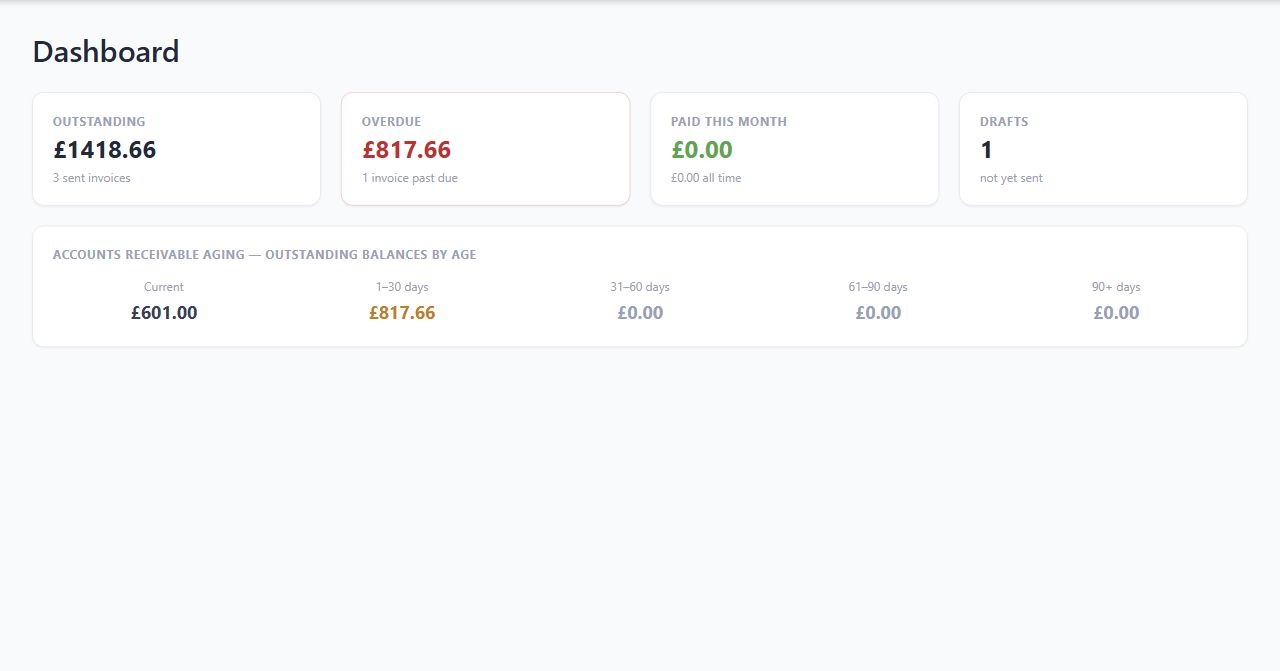
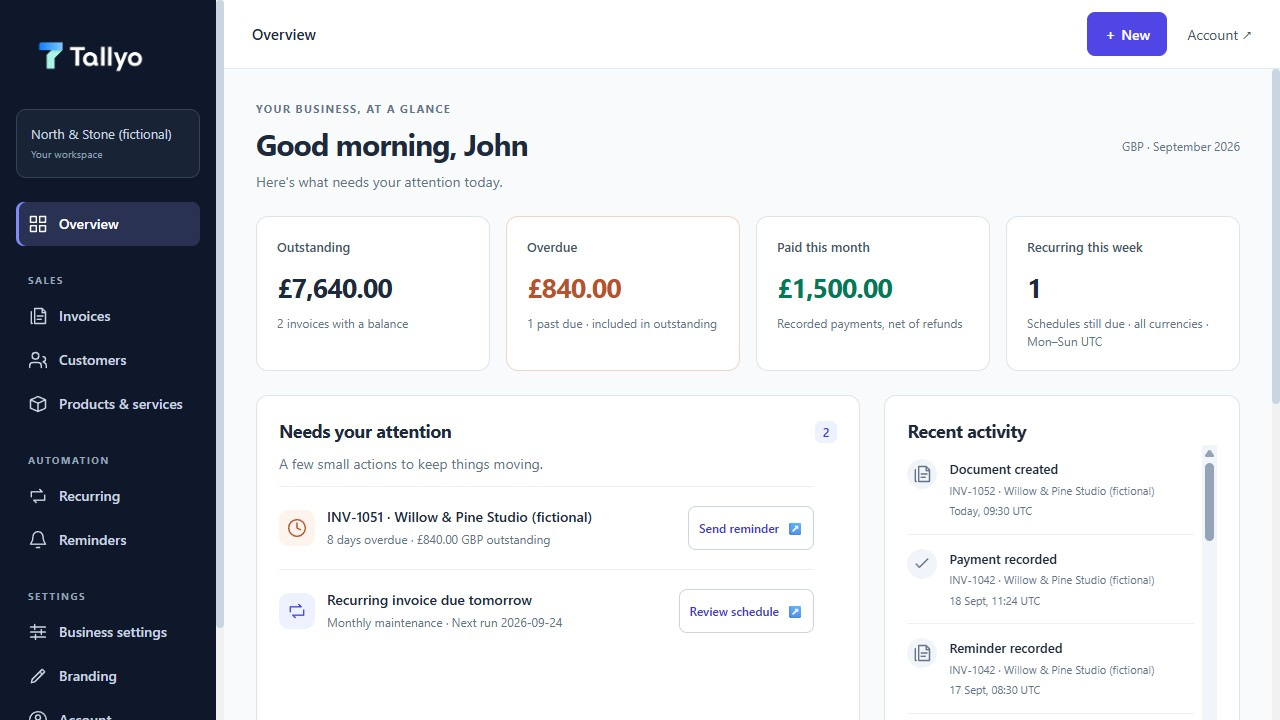
Refresh website product screenshots

diff --git a/website/src/styles.css b/website/src/styles.css
@@ -388,15 +388,14 @@ main > .section { margin-top: var(--layout-gap); }
 .demo-copy h2 { font-size: clamp(1.65rem, 3vw, 2.45rem); }
 .demo-copy > :last-child { margin-bottom: 0; }
 .demo-window { min-width: 0; overflow: hidden; border: 1px solid var(--slate-200); border-radius: var(--radius-lg); background: var(--white); box-shadow: 0 12px 34px rgba(26, 39, 69, 0.08); }
-.demo-window-capture { border: 0; background: transparent; box-shadow: 0 14px 34px rgba(26, 39, 69, 0.11); }
+.demo-window-capture { padding: clamp(0.22rem, 0.55vw, 0.42rem); border-color: rgba(156, 172, 205, 0.42); background: linear-gradient(145deg, rgba(255,255,255,0.96), rgba(237,242,252,0.88)); box-shadow: 0 18px 42px rgba(26, 39, 69, 0.12); }
 .demo-window-bar { display: flex; align-items: center; gap: 0.38rem; min-height: 2.7rem; padding: 0.55rem 0.75rem; border-bottom: 1px solid var(--slate-200); background: var(--slate-100); }
 .demo-window-bar i { width: 0.55rem; height: 0.55rem; border-radius: 999px; background: var(--slate-300); }
 .demo-window-bar strong { margin-left: 0.35rem; font-size: 0.78rem; }
 .demo-window-bar span { margin-left: auto; color: var(--slate-500); font-size: 0.64rem; }
 .demo-window-body { min-height: 10.5rem; padding: clamp(0.6rem, 1.4vw, 0.9rem); background: linear-gradient(145deg, #fff, #f5f7fb); font-size: 0.9rem; }
-.demo-window-screenshot { display: block; width: 100%; height: auto; border-radius: inherit; background: var(--slate-100); }
-.product-demo-mobile .demo-window-capture { width: min(100%, 20rem); aspect-ratio: 390 / 779; justify-self: center; }
-.product-demo-mobile .demo-window-screenshot { transform: translateY(-7.59%); }
+.demo-window-screenshot { display: block; width: 100%; height: auto; border: 1px solid rgba(156, 172, 205, 0.38); border-radius: calc(var(--radius-lg) - 0.35rem); background: var(--slate-100); box-shadow: 0 3px 12px rgba(26, 39, 69, 0.06); }
+.product-demo-mobile .demo-window-capture { width: min(100%, 20rem); justify-self: center; }
 .demo-metrics, .demo-form, .demo-schedule { display: grid; grid-template-columns: repeat(2, minmax(0, 1fr)); gap: 0.55rem; }
 .demo-metrics p, .demo-form p, .demo-schedule p { display: grid; gap: 0.12rem; margin: 0; padding: 0.55rem; border: 1px solid var(--slate-200); border-radius: 0.65rem; background: var(--white); }
 .demo-metrics span, .demo-form span, .demo-schedule span, .demo-total span, .demo-balance span { color: var(--slate-500); font-size: 0.7rem; }

diff --git a/tasks/ACTIVE.md b/tasks/ACTIVE.md
@@ -5,15 +5,15 @@
 Task ID: WEBSITE-REDESIGN-001
 Title: Redesign the public Tallyo website and give each route a clear purpose
 Priority: Medium
-Status: Core redesign Owner-approved; final Free Invoice Maker and compact Helper refinements implemented locally and awaiting visual review
+Status: Core redesign Owner-approved; final Free Invoice Maker, compact Helper and refreshed product-screenshot work implemented and awaiting final visual review
 Phase: Review
 Owner role: Product owner
 Risk level: Medium; public marketing, SEO and interaction changes only
 Branch: `codex/tallyo-website-redesign-phase1`
-Scope: approved visual redesign; simplified homepage; workflow-based Product Tour; clearer Features, Help, FAQ and Security boundaries; open section-based Free Invoice Maker with a responsive no-horizontal-scroll preview; persistent site-wide Tallyo Helper access through a compact question panel; Cookie settings moved from the page footer into the navigation menu; intent-specific free invoice and quote guidance; retirement and redirect of six thin industry landing pages; responsive and accessibility coverage
+Scope: approved visual redesign; simplified homepage; workflow-based Product Tour with current fictional-data app captures for Overview, invoice editing, quote acceptance, customer context, recurring schedules, overdue reminders, deposits/full payment, activity, branding, account security and mobile quote acceptance; clearer Features, Help, FAQ and Security boundaries; open section-based Free Invoice Maker with a responsive no-horizontal-scroll preview; persistent site-wide Tallyo Helper access through a compact question panel; Cookie settings moved from the page footer into the navigation menu; intent-specific free invoice and quote guidance; retirement and redirect of six thin industry landing pages; responsive and accessibility coverage
 Approval boundary: implementation, local validation, commit, push and draft pull request are authorised. The Owner approved the refreshed core pages on 2026-09-23, then requested the focused Free Invoice Maker, Helper and Cookie-settings refinements before release. Merging to `main` remains blocked until those final refinements are reviewed. No app, database, migration, Edge Function, Auth, provider configuration, secret, email, payment, refund, Stripe object, legal page or unrelated change is included.
-Validation: complete website suite; public Helper fail-closed and mock-provider checks; Analytics release-gate checks; free-generator conversion and one-email consent checks; desktop visual inspection of Home, Features, Product Tour, Pricing, Security, Help, FAQ and the revised Free Invoice Maker; 390px Free Invoice Maker geometry and live-calculation check with fictional data; no mobile horizontal overflow; compact Helper open, answer, close, keyboard and mobile geometry checks; site-wide Helper and navigation Cookie-settings markup checks; shared 20px top-level section and card-gap coverage across desktop and mobile; equal-height pricing cards; centred desktop navigation; diff hygiene
-Next action: Owner reviews the final refinements at `http://127.0.0.1:4190/` by opening the compact Helper icon; after approval, complete the protected pull-request and production release workflow
+Validation: complete website suite; public Helper fail-closed and mock-provider checks; Analytics release-gate checks; free-generator conversion and one-email consent checks; deterministic loopback-only screenshot capture with external requests blocked and all records visibly fictional; professional 1280×720 desktop and 390×844 customer-mobile framing; desktop visual inspection of Home, Features, Product Tour, Pricing, Security, Help, FAQ and the revised Free Invoice Maker; 390px Free Invoice Maker geometry and live-calculation check with fictional data; no mobile horizontal overflow; compact Helper open, answer, close, keyboard and mobile geometry checks; site-wide Helper and navigation Cookie-settings markup checks; shared 20px top-level section and card-gap coverage across desktop and mobile; equal-height pricing cards; centred desktop navigation; diff hygiene
+Next action: Owner reviews the refreshed Product Tour and remaining final refinements at `http://127.0.0.1:4190/product-tour/`; after approval, complete the protected pull-request and production release workflow
 
 ## UX-EDITOR-002 — Invoice editor usability and exact discounts
 
